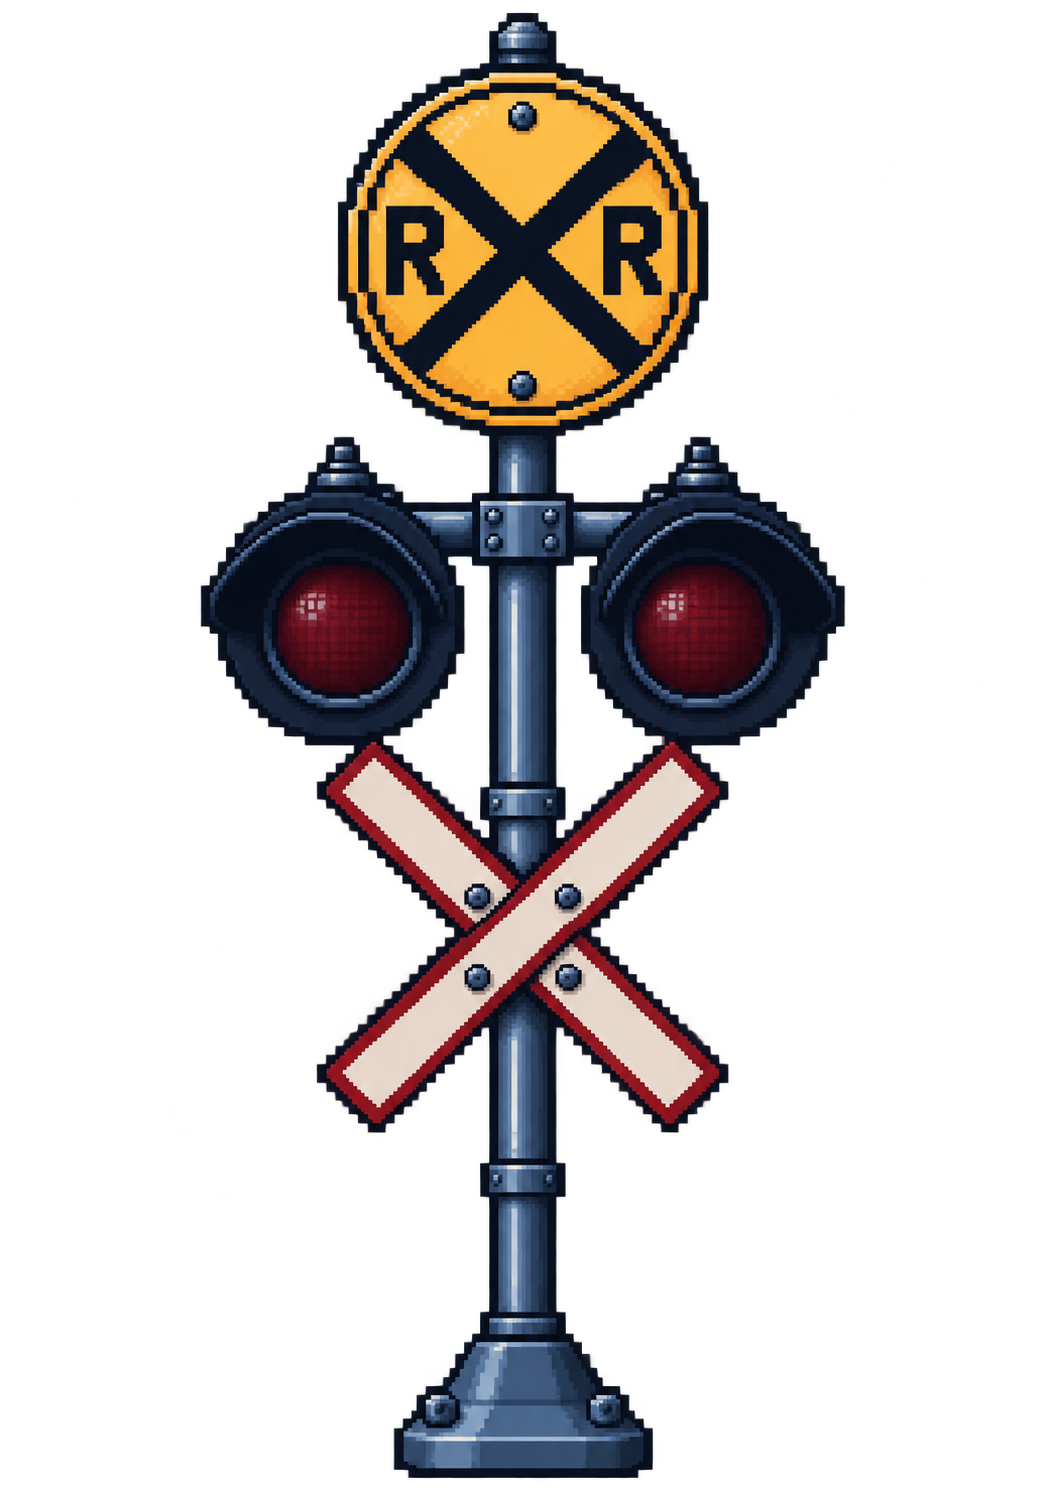
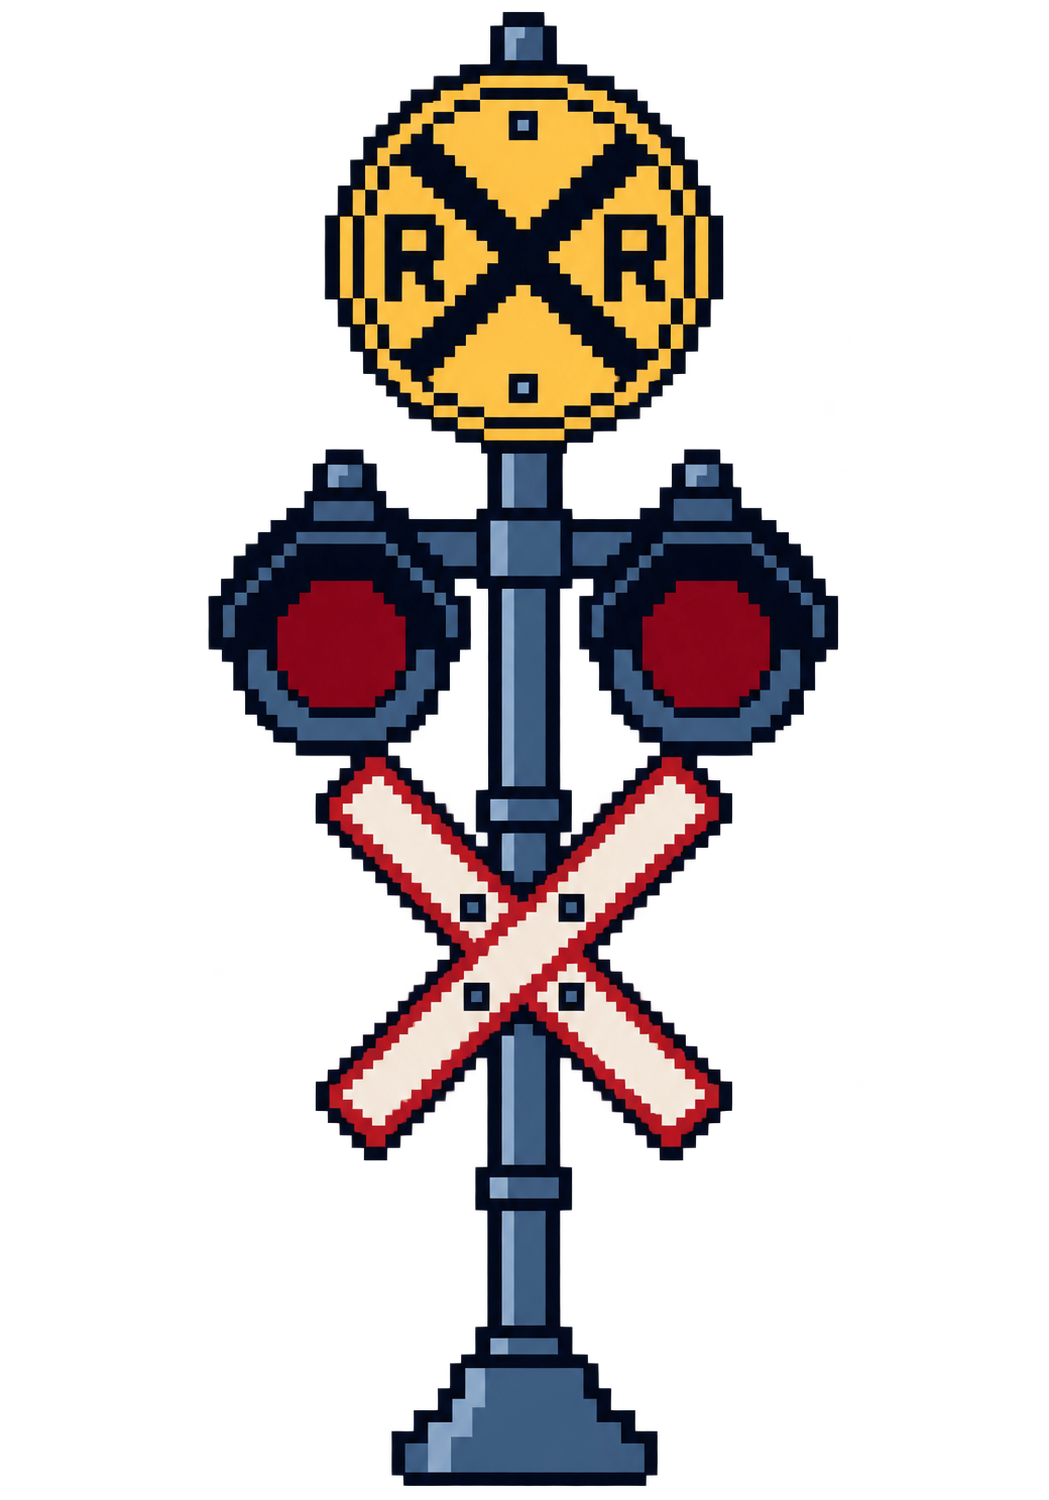
fix: ajustar señal ferroviaria al estilo arcade aprobado

Changed region(s): [[0.183, 0.0, 0.8236, 1.0]]

diff --git a/frontend/admin.html b/frontend/admin.html
@@ -40,8 +40,8 @@
         </nav>
         <svg class="admin-senal-ferroviaria" viewBox="0 0 1049 1499" aria-hidden="true" focusable="false">
           <image href="/assets/senal-ferroviaria-admin.png" width="1049" height="1499" />
-          <ellipse class="admin-senal-ferroviaria__luz admin-senal-ferroviaria__luz--izquierda" cx="343" cy="636" rx="54" ry="57" />
-          <ellipse class="admin-senal-ferroviaria__luz admin-senal-ferroviaria__luz--derecha" cx="703" cy="636" rx="54" ry="57" />
+          <path class="admin-senal-ferroviaria__luz admin-senal-ferroviaria__luz--izquierda" d="M317 590h52v12h12v12h12v12h12v48h-12v12h-12v12h-12v12h-52v-12h-12v-12h-12v-12h-12v-48h12v-12h12v-12h12z" />
+          <path class="admin-senal-ferroviaria__luz admin-senal-ferroviaria__luz--derecha" d="M677 590h52v12h12v12h12v12h12v48h-12v12h-12v12h-12v12h-52v-12h-12v-12h-12v-12h-12v-48h12v-12h12v-12h12z" />
         </svg>
         <div class="admin-menu-pie" hidden>
           <button id="cerrarSesion" class="admin-cerrar-sesion" type="button">
